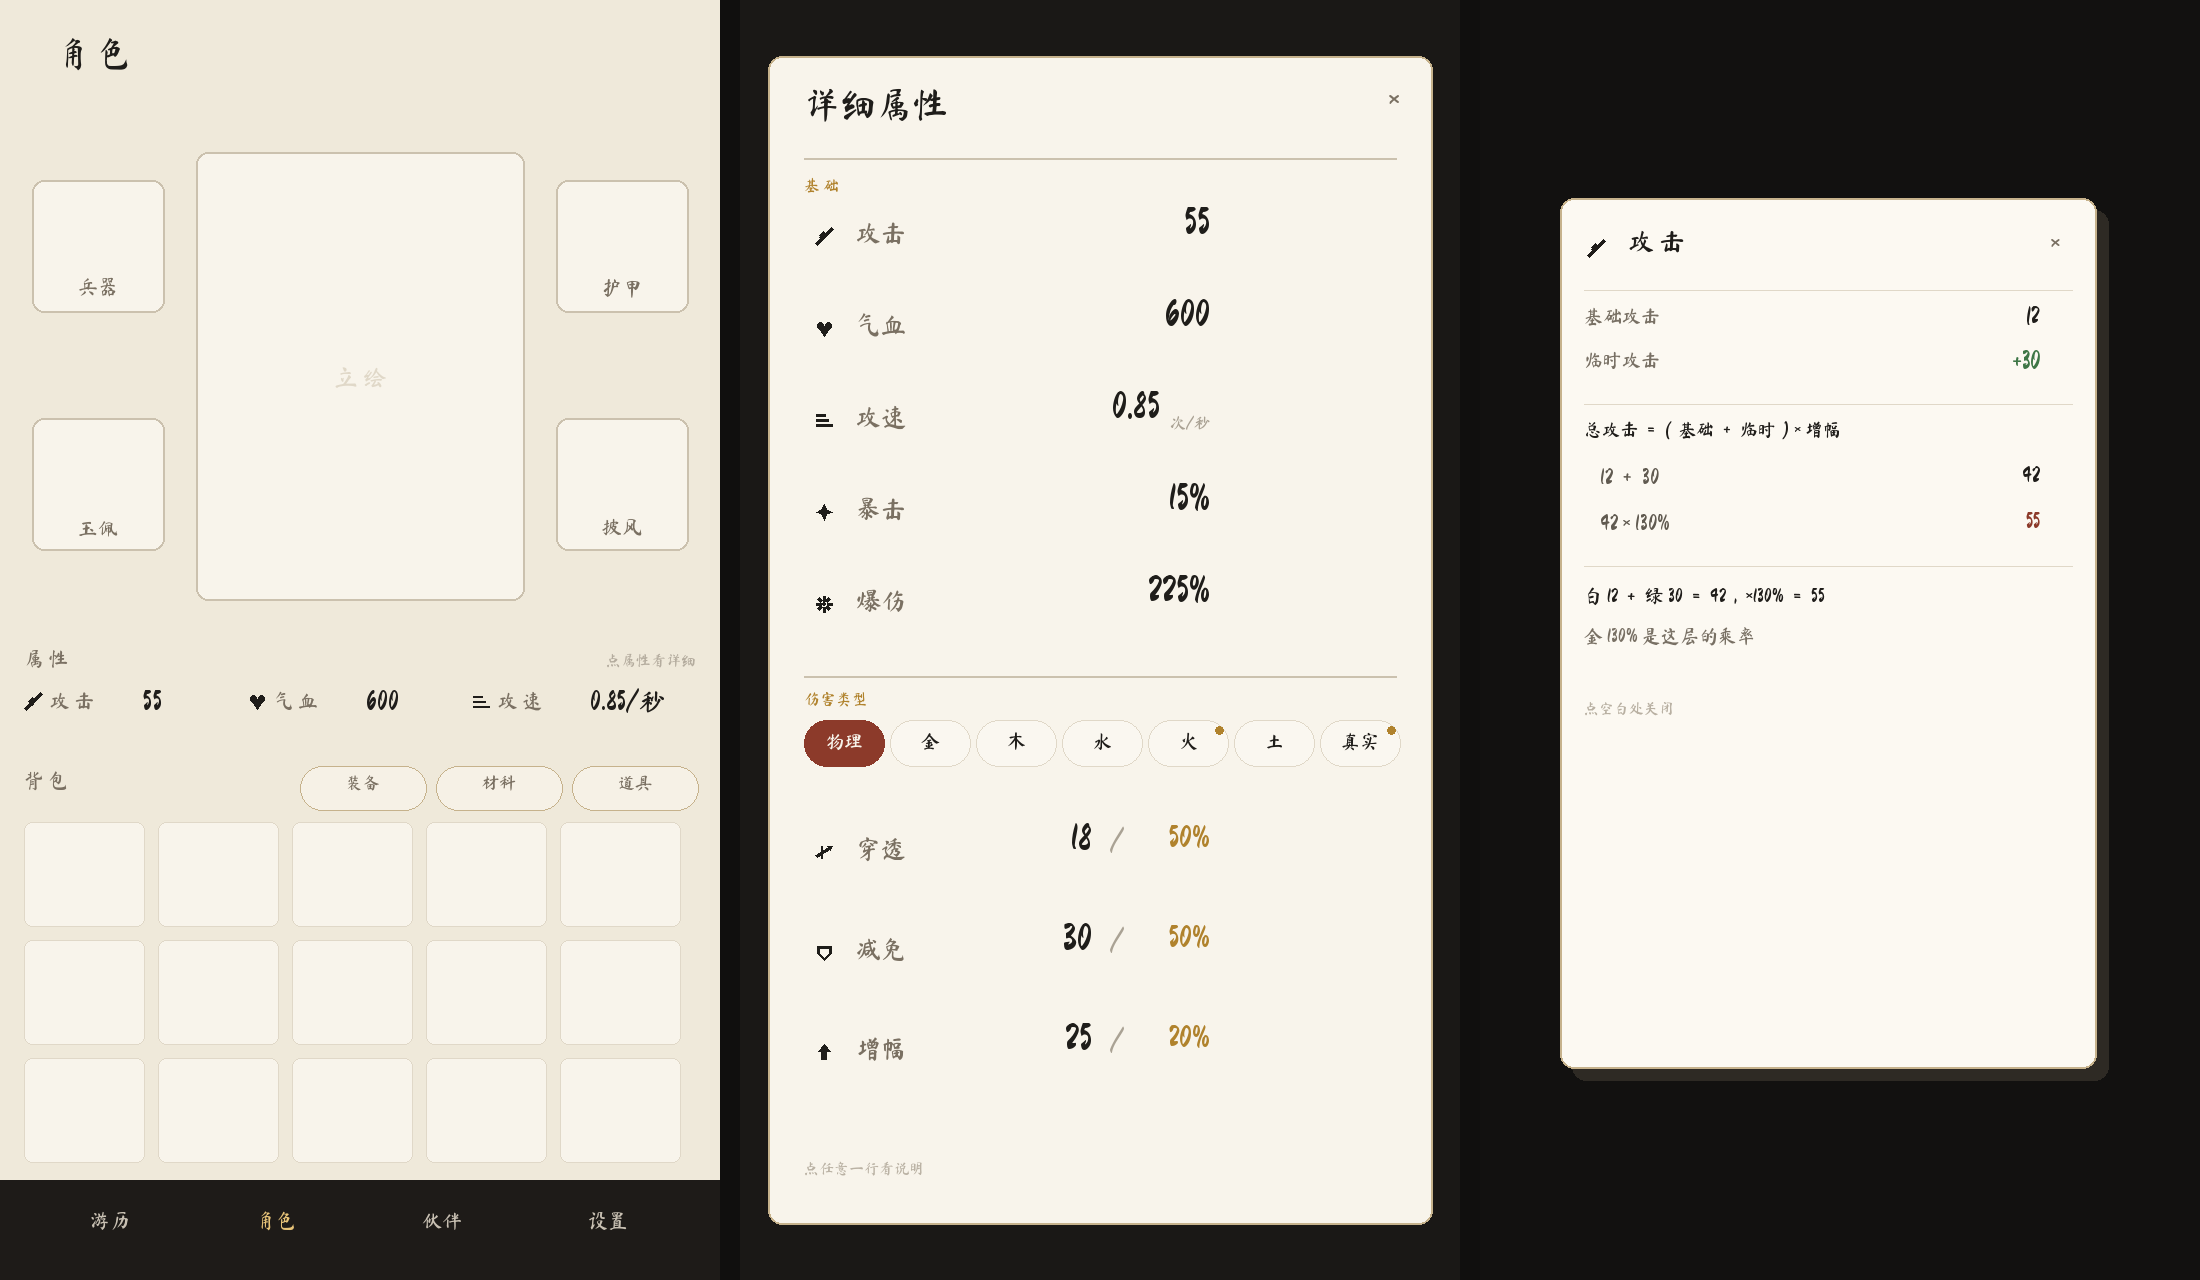
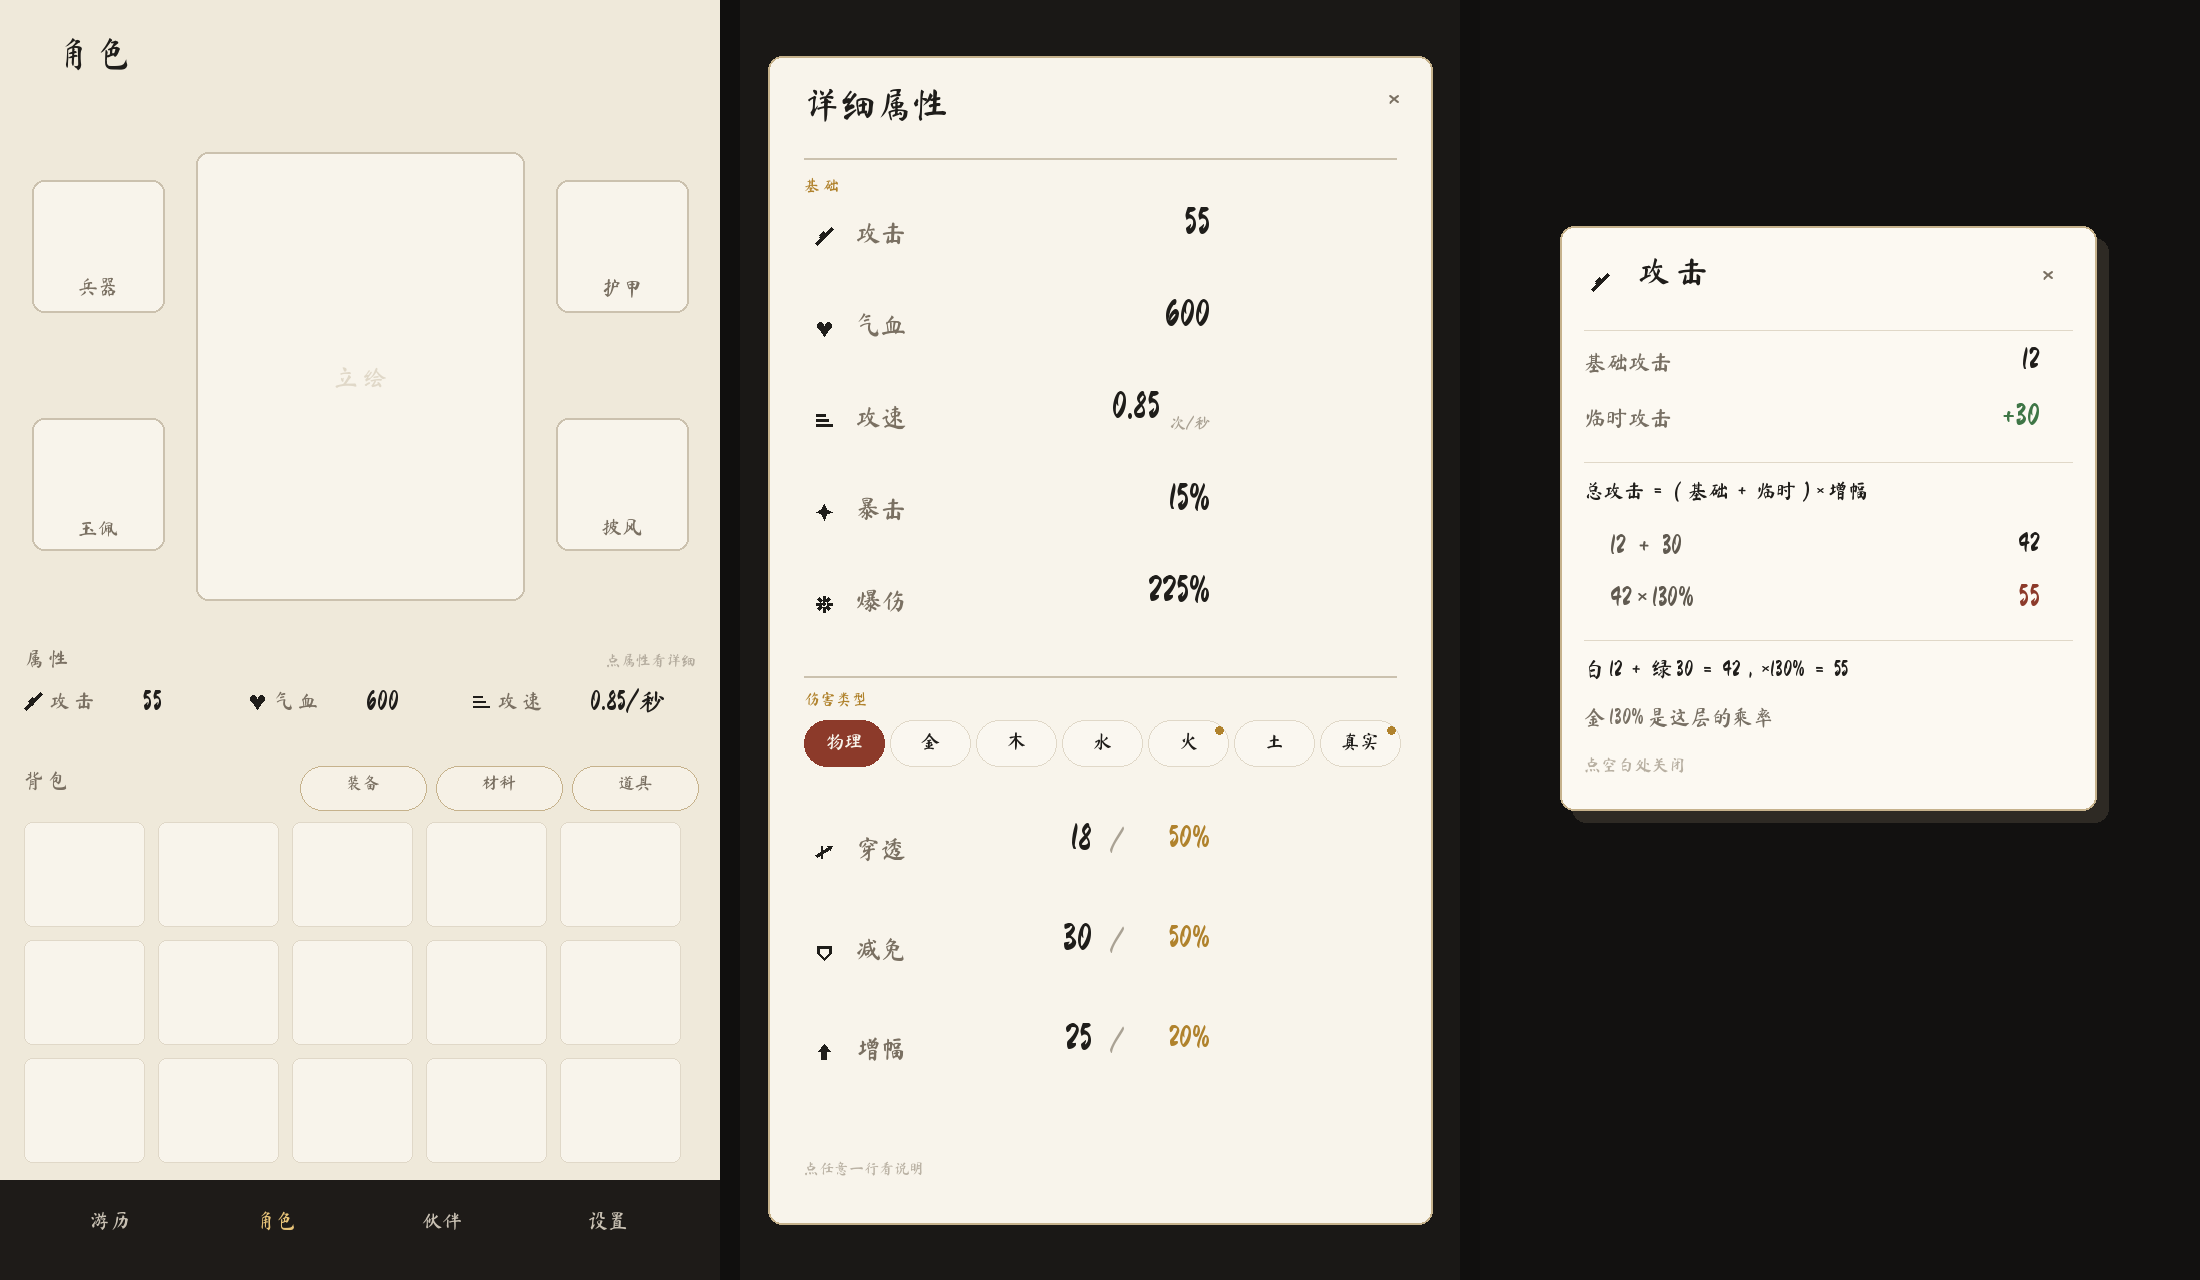
文档：属性弹窗字号放大、卡片收紧不留空白
- 标题 32 / 条目 22 / 数值 30 / 公式 20~26
- 卡片高度按内容收（约 590），不再留一大片空
- 弹窗内容改成 拆解（基础/临时）→ 算式 → 一句话总结

diff --git a/docs/人物属性_设计稿.md b/docs/人物属性_设计稿.md
@@ -313,19 +313,26 @@
 **不做单独的百科页 / 帮助页。** 任何地方**点属性名或图标**，就地弹一个小窗：
 
 ```
-        ┌──────────────────────────────┐
-        │  ⚔  攻 击                  ×  │
-        │                              │
-        │        55   ×1.30            │
-        │  12 ＋ 43                    │
-        │  ────────────────────────    │
-        │  一切伤害的底子，越高每刀越疼 │
-        │  来源：装备 20 · 强化 12     │
-        │        · 卡组 11             │
-        └──────────────────────────────┘
+┌────────────────────────────────┐
+│  ⚔  攻 击                    × │
+│ ────────────────────────────── │
+│ 基础攻击                  12   │
+│ 临时攻击                 +30   │
+│ ────────────────────────────── │
+│ 总攻击 ＝（基础 ＋ 临时）× 增幅 │
+│   12 ＋ 30                42   │
+│   42 × 130%               55   │
+│ ────────────────────────────── │
+│ 白 12 ＋ 绿 30 ＝ 42，×130% ＝ 55 │
+│ 金 130% 是这层的乘率            │
+│ 点空白处关闭                    │
+└────────────────────────────────┘
 ```
 
-固定四段：**图标＋名称 → 当前值 → 一句话定义 → 来源拆解**。
+**字号要够大**（弹窗空间足，别浪费）：标题 32px · 条目名 22px · 数值 30px ·
+公式行 20~26px。卡片高度收到 **约 590**（内容多高就多高），不要留一大片空白。
+
+固定四段：**图标＋名称 → 拆解（基础/临时/增幅）→ 算式 → 一句话总结**。
 
 - 角色页、详细页、战斗中属性窗，**同一个组件**
 - 点窗外空白处 / 右上 × 关闭（不挡操作）
